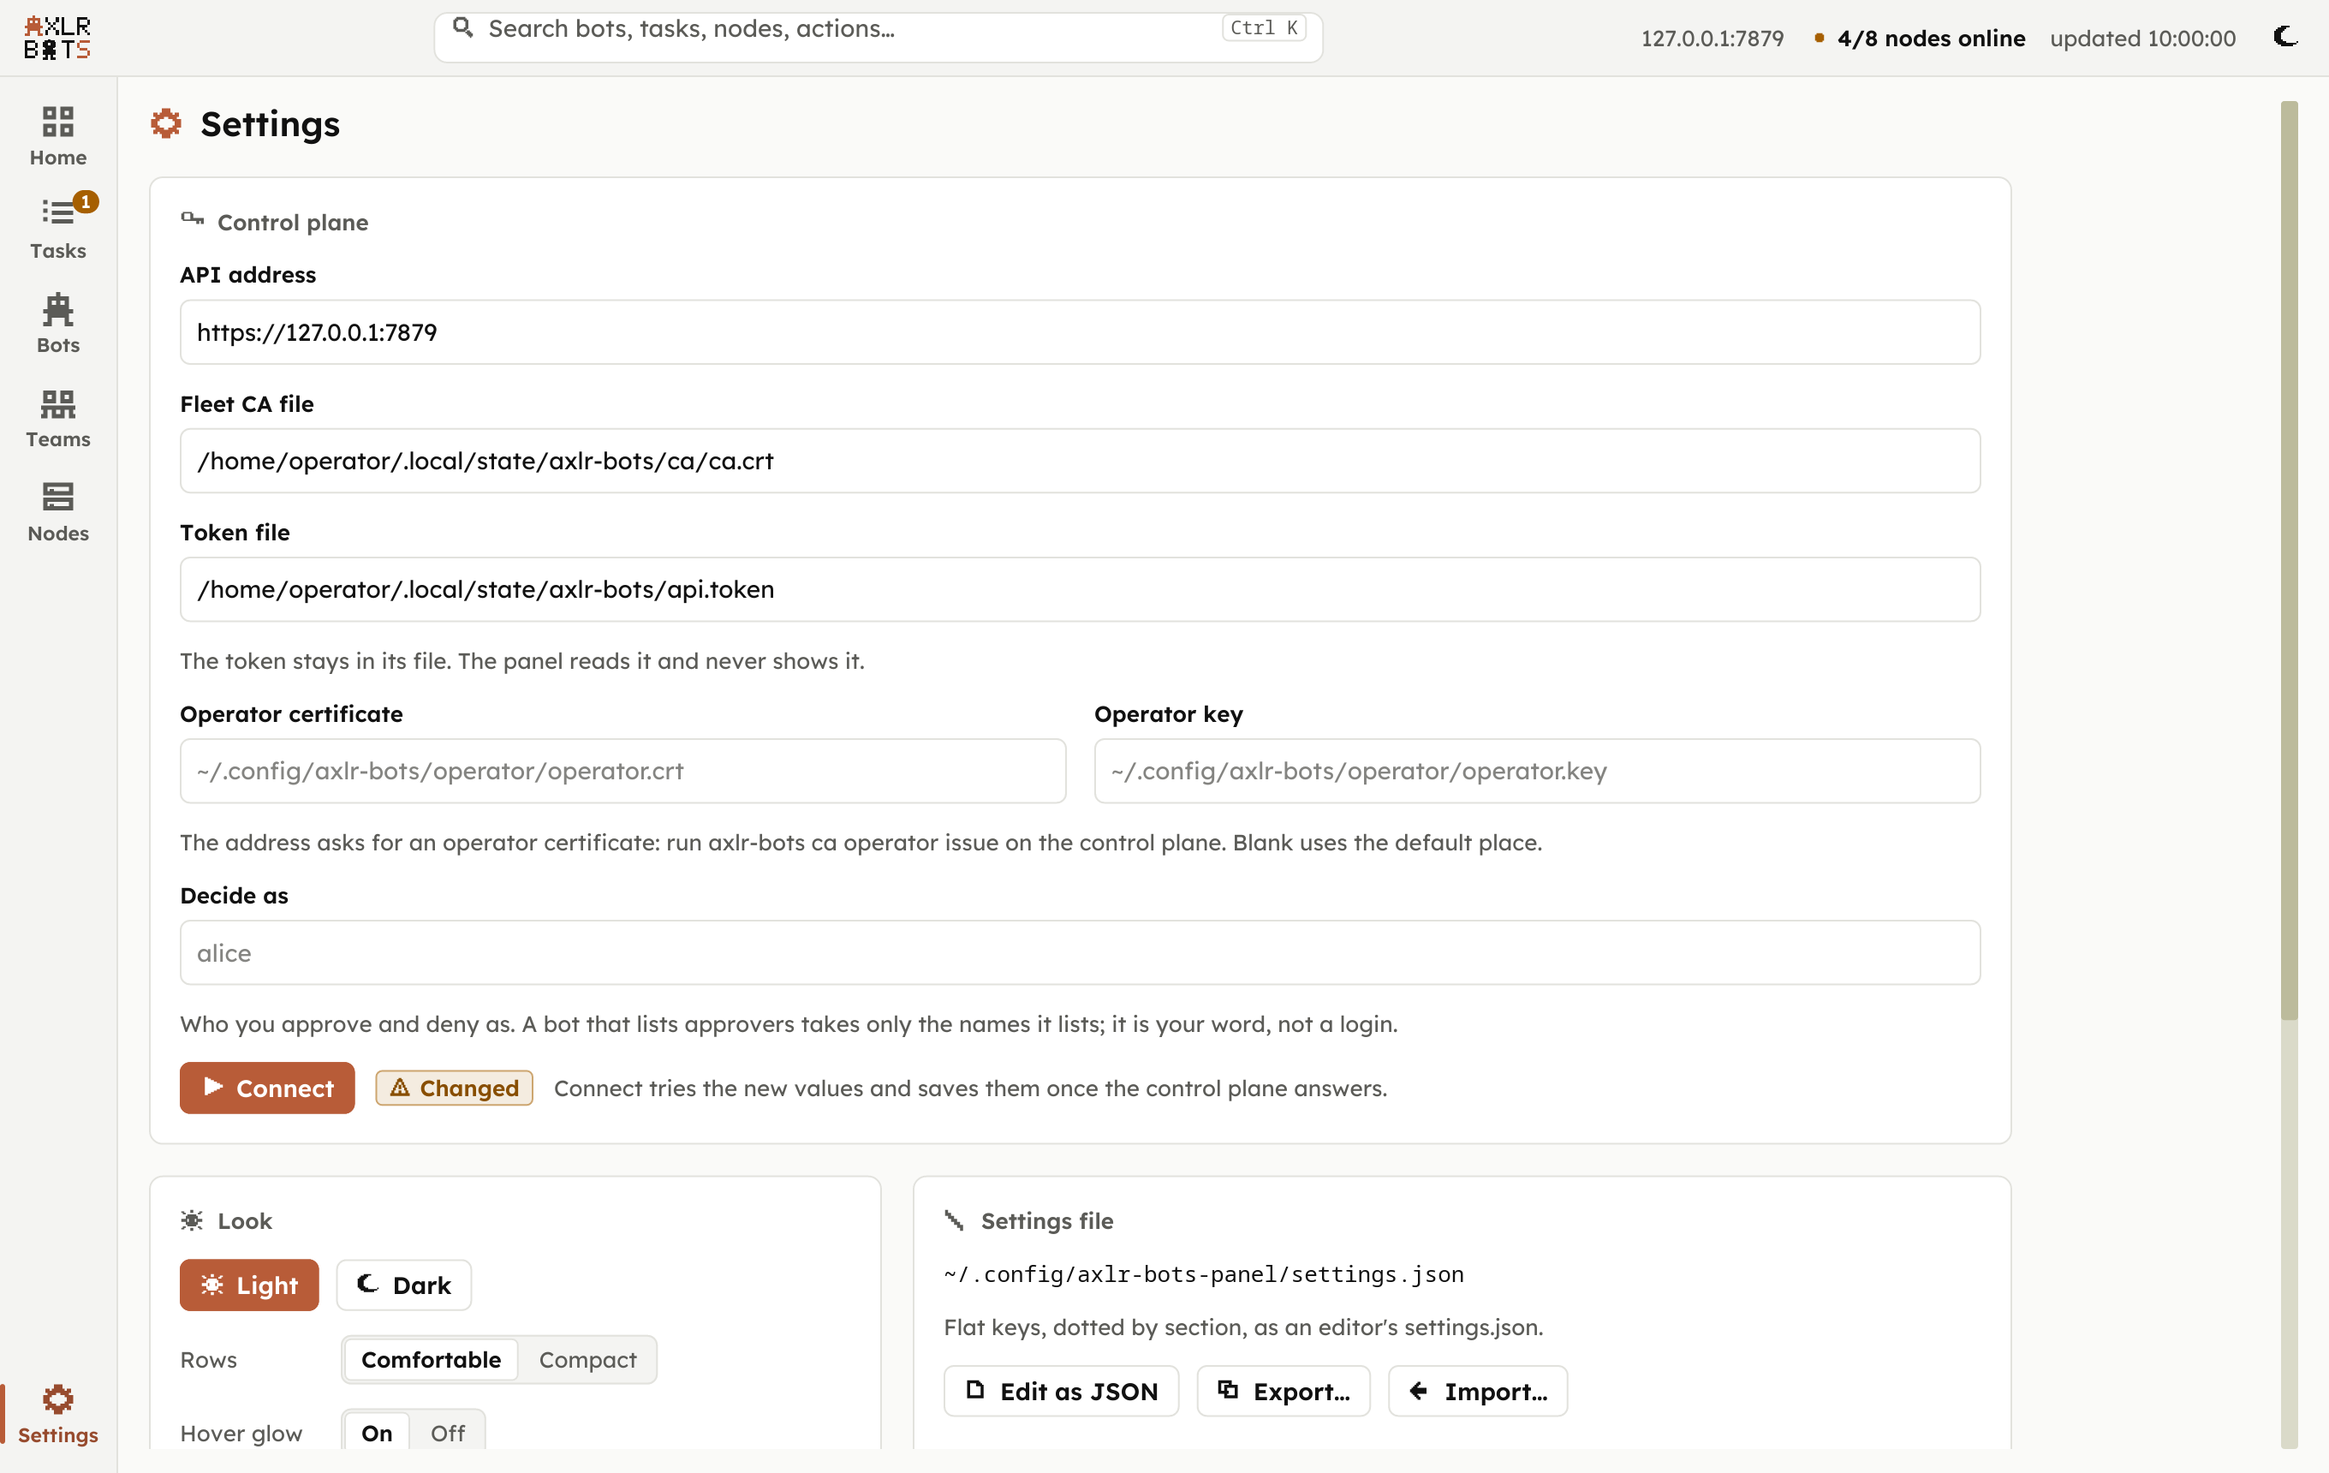
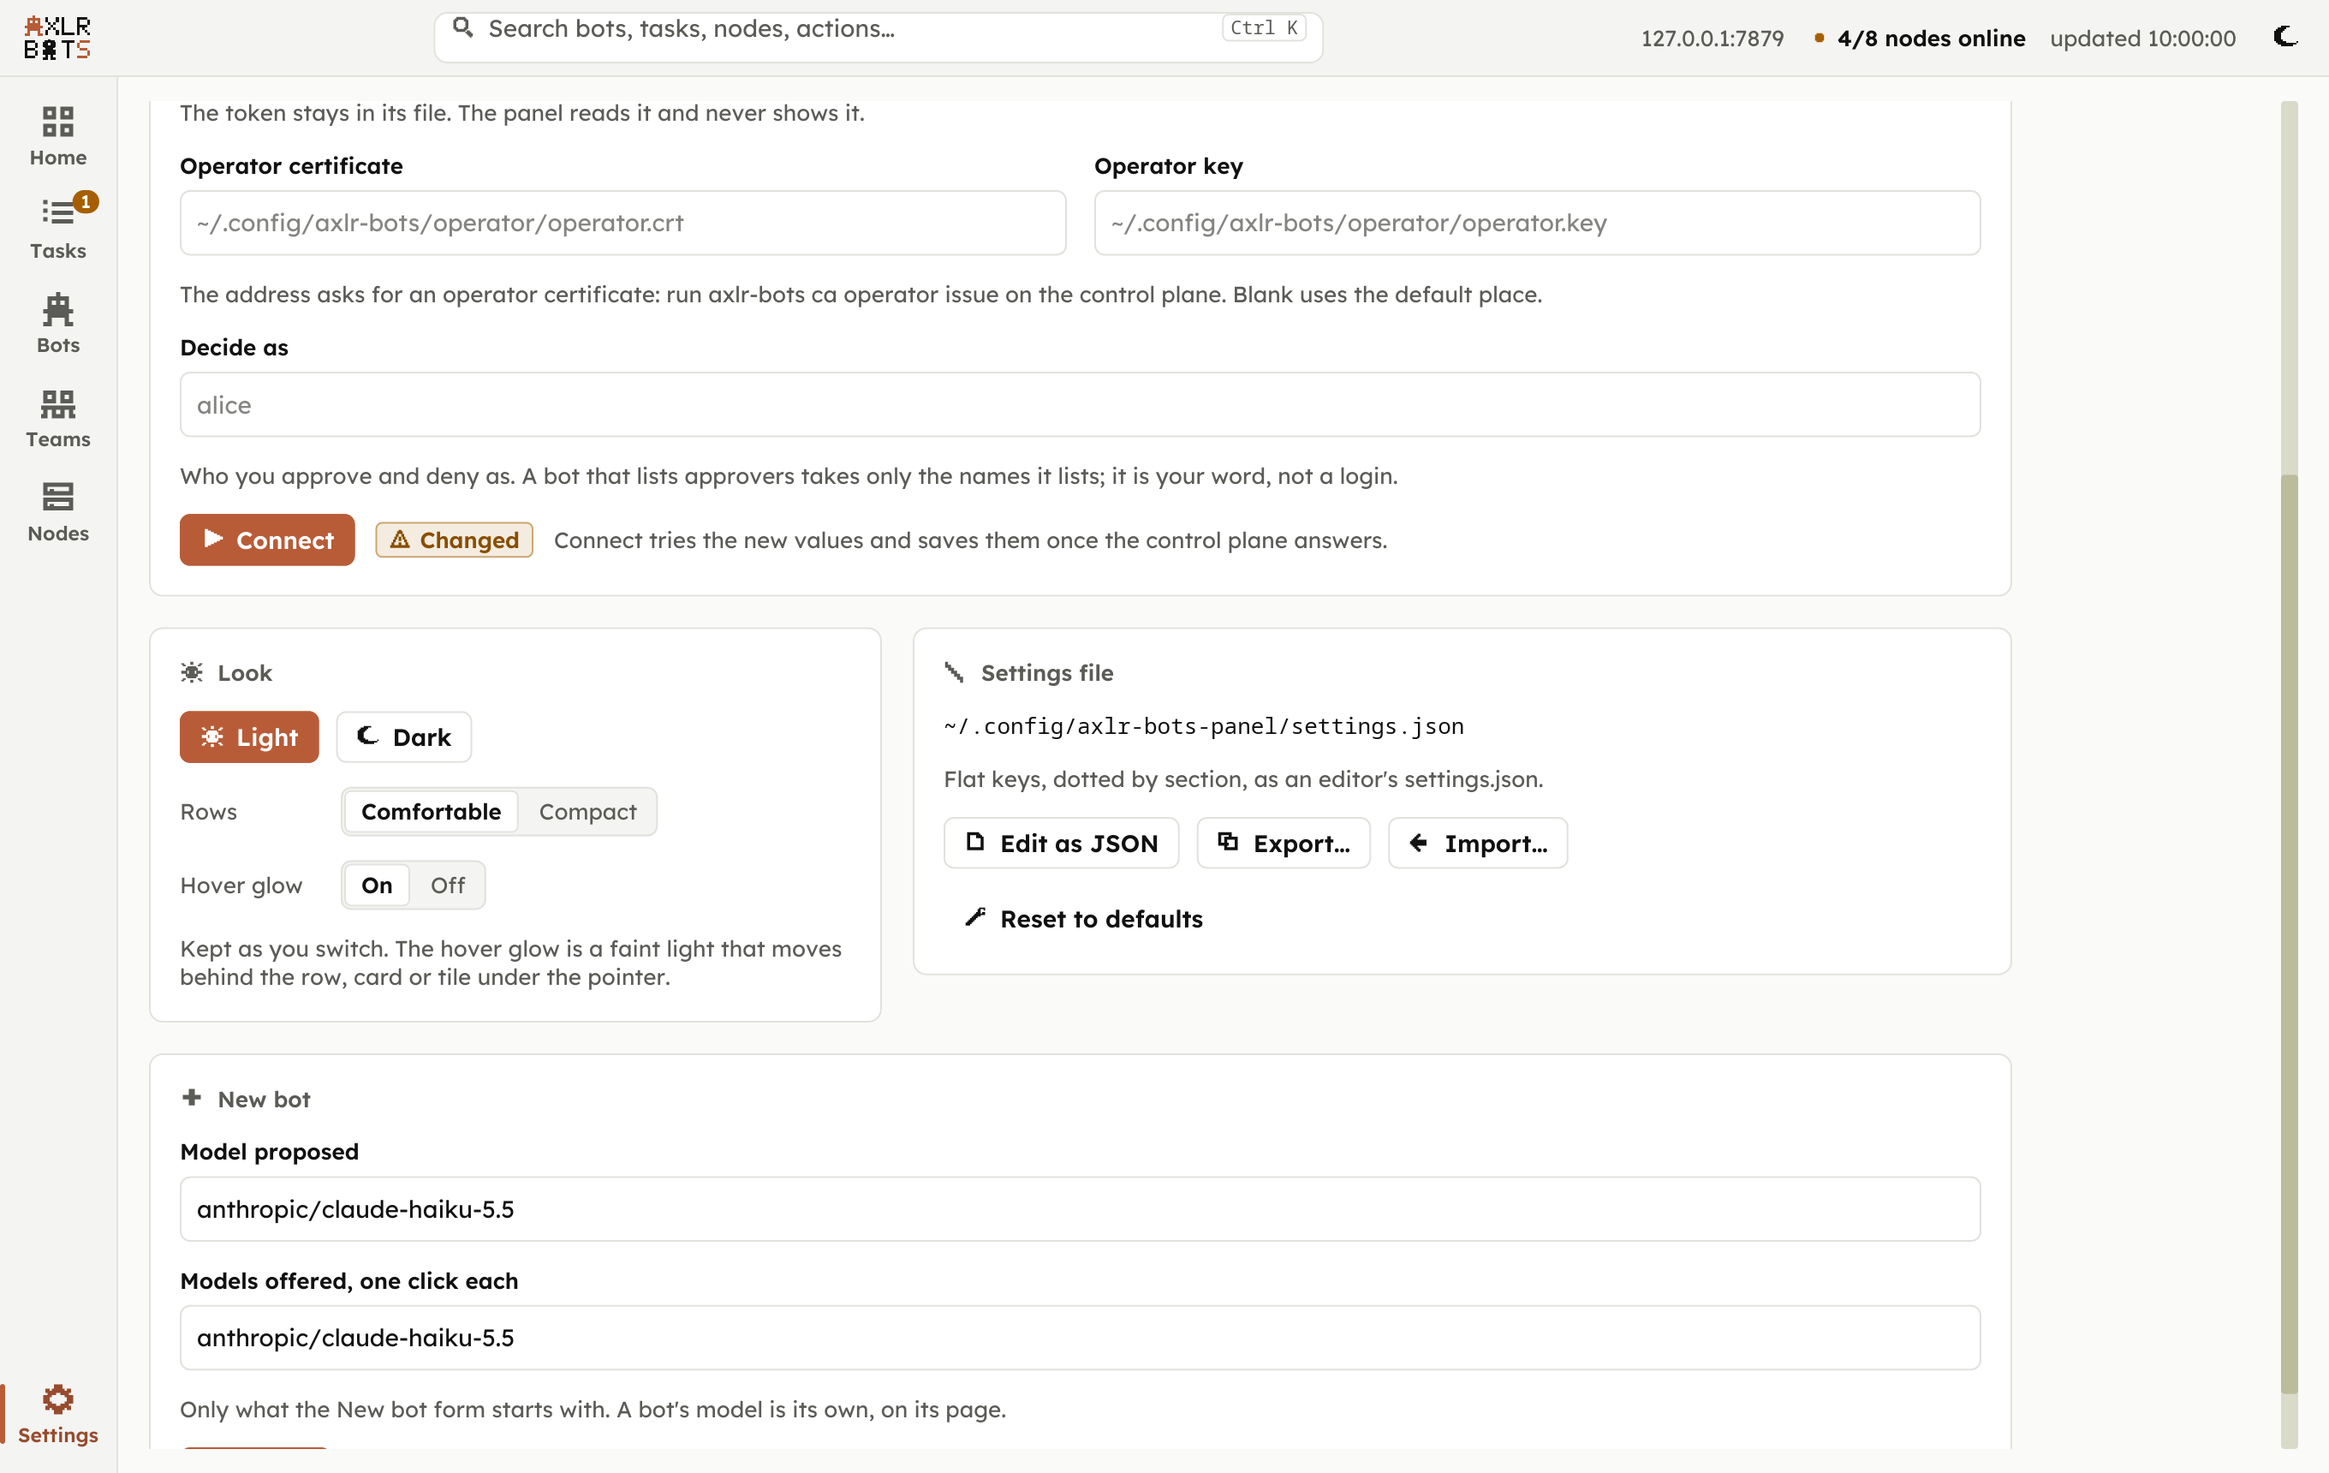
Panel docs: the Settings shots scroll to the look with its hover glow switch whole, and the README says the live words are on the Answer tab and the node a task waits for under its header

diff --git a/panel/src/ui/screenshot_tests.rs b/panel/src/ui/screenshot_tests.rs
@@ -46,16 +46,24 @@ impl Camera {
 
     /// The same, in a window of another size.
     fn shoot_at(&self, app: &mut App, name: &str, window: iced::Size) {
-        self.draw(app, name, window, None);
+        self.draw(app, name, window, None, 0.0);
     }
 
     /// Draws the panel with the pointer at `pointer`, if one is given:
-    /// what is under it has the pointer's wash, as in the window.
-    fn draw(&self, app: &mut App, name: &str, window: iced::Size, pointer: Option<Point>) {
+    /// what is under it has the pointer's wash, as in the window. With a
+    /// `wheel`, the page is first scrolled down by that many points.
+    fn draw(&self, app: &mut App, name: &str, window: iced::Size, pointer: Option<Point>, wheel: f32) {
         let _ = app.apply(Message::DismissBanner);
         let _turn = turn();
         let theme = Tokens::of(app.mode).theme();
         let mut ui = Simulator::with_size(panel_settings(), window, view::view(app));
+        if wheel > 0.0 {
+            ui.point_at(Point::new(window.width / 2.0, window.height / 2.0));
+            let _ = ui.simulate([iced::Event::Mouse(iced::mouse::Event::WheelScrolled {
+                delta: iced::mouse::ScrollDelta::Pixels { x: 0.0, y: -wheel },
+            })]);
+            ui.point_at(pointer.unwrap_or(Point::new(window.width - 2.0, window.height - 2.0)));
+        }
         if let Some(pointer) = pointer {
             ui.point_at(pointer);
         }
@@ -75,10 +83,20 @@ impl Camera {
 
     /// The same state, light and dark, with the pointer at `pointer`.
     fn both_at(&self, app: &mut App, name: &str, pointer: Option<Point>) {
+        self.both_drawn(app, name, pointer, 0.0);
+    }
+
+    /// The same state, light and dark, the page scrolled down by `wheel`
+    /// points: the Settings' look and file, under its control plane.
+    fn both_scrolled(&self, app: &mut App, name: &str, wheel: f32) {
+        self.both_drawn(app, name, None, wheel);
+    }
+
+    fn both_drawn(&self, app: &mut App, name: &str, pointer: Option<Point>, wheel: f32) {
         for mode in [ThemeMode::Light, ThemeMode::Dark] {
             app.mode = mode;
             let suffix = if mode == ThemeMode::Dark { "dark" } else { "light" };
-            self.draw(app, &format!("{name}-{suffix}"), WINDOW, pointer);
+            self.draw(app, &format!("{name}-{suffix}"), WINDOW, pointer, wheel);
         }
         app.mode = ThemeMode::Light;
     }
@@ -122,6 +140,10 @@ fn place_of(app: &App, words: &str) -> iced::Rectangle {
         .unwrap_or_else(|e| panic!("{words} is not on {:?}: {e:?}", app.screen))
         .bounds()
 }
+
+/// How far the Settings screen is scrolled for its shots: its look and
+/// its file in sight whole, under the end of its control plane.
+const SETTINGS_WHEEL: f32 = 320.0;
 
 fn task_with(app: &App, status: TaskStatus) -> crate::domain::TaskId {
     let fleet = app.fleet.as_ref().unwrap();
@@ -199,7 +221,7 @@ fn screenshots() {
     app.apply(Message::SettingsToken(
         "/home/operator/.local/state/axlr-bots/api.token".into(),
     ));
-    camera.both(&mut app, "settings");
+    camera.both_scrolled(&mut app, "settings", SETTINGS_WHEEL);
     app.apply(Message::SettingsJsonOpen);
     camera.shoot(&mut app, "settings-json-light");
     app.apply(Message::SettingsJsonClose);
@@ -490,7 +512,7 @@ fn redesign_shots_s4() {
 
     // The Settings screen with the switch, on and off.
     send(&mut app, Message::Go(Screen::Settings));
-    camera.both(&mut app, "s4-settings");
+    camera.both_scrolled(&mut app, "s4-settings", SETTINGS_WHEEL);
     send(&mut app, Message::SetMotion(crate::application::Motion::Off));
-    camera.shoot(&mut app, "s4-settings-off-light");
+    camera.draw(&mut app, "s4-settings-off-light", WINDOW, None, SETTINGS_WHEEL);
 }

diff --git a/panel/README.md b/panel/README.md
@@ -76,11 +76,11 @@ The page never scrolls as a whole. A list keeps its bar and its header in sight 
 |:--|:--:|:--:|
 | **Home**: what needs you first, as an amber block with **Approve**, **Deny** and **Review** on each waiting task, or one quiet line *✓ Nothing needs you*; then one strip of seven numbers (nodes online, bots on, running, need you, failed today, stopped today, cost today), each a link to what it counts; then three columns: **Fleet**, every bot as a small tile by team (on: solid with a dot; paused: muted), **Latest**, the newest 20 tasks with their repeats folded, and **Nodes**, the live ones (the revoked are counted, not listed). A click on a tile, a line or a number opens it | <img src="docs/screenshots/overview-light.png" width="300"> | <img src="docs/screenshots/overview-dark.png" width="300"> |
 | **Tasks**: one line per task: Status · Bot · What · Started by (the trigger's glyph and name) · At (your clock) · Age, and its acts (✓ ✕ on one that waits for you, Stop on one still open). *What* is the event's own message when an event started the task, then the objective, muted. **Fold repeats** (on by default) folds the tasks of one bot that the same trigger started and that stand the same into the newest, with a `×N` badge; the note line says how many (*Newest 200 tasks · 110 repeats folded*). **Group** goes round none, trigger, bot and status, under headers with counts that close on a click. Status chips with counts filter; **New task** sends one (one idempotency key per form; **Urgent** sends it first) | <img src="docs/screenshots/tasks-light.png" width="300"> | <img src="docs/screenshots/tasks-dark.png" width="300"> |
-| **A task in the inspector**: a click or Enter on a row opens it beside the list, which stays, narrower. The header has the status, the bot, what started it and the acts (**Approve** and **Deny** while it waits, **Stop** while it is open, **Run again**, and **Talk to it**, which opens its bot's chat, while it runs), the title on at most two lines and the objective under it; then its facts (Node, Started, Took, Cost, From, Team, and the task and trace ids with a copy button); then the tabs **Activity · Answer · Files · Runs · Timeline · Raw** | <img src="docs/screenshots/task-activity-light.png" width="300"> | <img src="docs/screenshots/task-activity-dark.png" width="300"> |
-| **Activity**: what the run did, one line per step ([live progress](../docs/architecture/live-progress.md)): your clock, ✓ ✕ or ▶, the tool, the step's *why* (the `why` its call gave, else its arguments, muted), how long it took with a small bar; the events it emitted and what it said sit in the same stream, in order. A click opens the step in place: its arguments, why it failed, the bots it asked (**Open task**), **Copy step**; **Copy activity** copies it all. **Find in activity** (`Ctrl F`) marks every match and counts them (`1/7`), Enter and Shift+Enter (or ↑ ↓) go to the next and the one before; the chips All · Tools · Failed · Events keep one kind. A running task follows its newest step; scrolling up stops that and offers **↓ Jump to latest**. **What it says so far** shows the model's words as they come (**Select words** holds them still to select a part of, **Formatted** goes back, **Copy words**). A decision queued for a node that is away says so on top, in your clock: *Waiting for node web-1, offline since 11:20* | | |
+| **A task in the inspector**: a click or Enter on a row opens it beside the list, which stays, narrower. The header has the status, the bot, what started it and the acts (**Approve** and **Deny** while it waits, **Stop** while it is open, **Run again**, and **Talk to it**, which opens its bot's chat, while it runs), the title on at most two lines and the objective under it; then its facts (Node, Started, Took, Cost, From, Team, and the task and trace ids with a copy button); a line on why it ended, or what it waits for (a decision queued for a node that is away says so in your clock: *Waiting for node web-1, offline since 11:20*); then the tabs **Activity · Answer · Files · Runs · Timeline · Raw** | <img src="docs/screenshots/task-activity-light.png" width="300"> | <img src="docs/screenshots/task-activity-dark.png" width="300"> |
+| **Activity**: what the run did, one line per step ([live progress](../docs/architecture/live-progress.md)): your clock, ✓ ✕ or ▶, the tool, the step's *why* (the `why` its call gave, else its arguments, muted), how long it took with a small bar; the events it emitted and what it said sit in the same stream, in order. A click opens the step in place: its arguments, why it failed, the bots it asked (**Open task**), **Copy step**; **Copy activity** copies it all. **Find in activity** (`Ctrl F`) marks every match and counts them (`1/7`), Enter and Shift+Enter (or ↑ ↓) go to the next and the one before; the chips All · Tools · Failed · Events keep one kind. A running task follows its newest step; scrolling up stops that and offers **↓ Jump to latest** | | |
 | **A task that waits for you**: the call it stopped on, each argument with its copy button, **Copy call**, and **Approve** or **Deny** in the header | <img src="docs/screenshots/task-waiting-light.png" width="300"> | <img src="docs/screenshots/task-waiting-dark.png" width="300"> |
 | **A post before it goes out**: when the waiting call publishes something (an argument named `--text`, `--message`, `--body` or `--post`, on any program), the call shows it **as it would read**: the bot as author, the words with their links, one box per attachment (`--card`, `--image`, `--cover`, `--diagram`: the pictures are drawn on the node, so each shows what it is), the character and link count, and **Copy text**. No network is special: the panel draws the draft, not X or Mastodon | <img src="docs/screenshots/task-post-draft-light.png" width="300"> | <img src="docs/screenshots/task-post-draft-dark.png" width="300"> |
-| **Answer, Files, Runs, Timeline, Raw**: the answer as Markdown, or as text to select a part of (**Select text**, **Copy answer**); what a task an event made knew and read before (**Knew**, **Read before**); the files its runs delivered (name, type, size) with **Save** on those the control plane keeps; every run with its node, outcome, tool calls and why each ran or not (Allowed by its rules, You approved it, It asked you, Blocked by its rules, You denied it), usage and cost (*cost unknown* for a run stopped before it said, and a total with such runs reads *≥ $0.42*, as Home's cost today does), trace and policy; the timeline of its lifecycle (**Copy timeline**); and **Raw**, the task as JSON (**Copy JSON**) | | |
+| **Answer, Files, Runs, Timeline, Raw**: the answer as Markdown, or as text to select a part of (**Select text**, **Copy answer**); before there is one, **What it says so far**, the model's words as they come (**Select words** holds them still to select a part of, **Formatted** goes back, **Copy words**); what a task an event made knew and read before (**Knew**, **Read before**); the files its runs delivered (name, type, size) with **Save** on those the control plane keeps; every run with its node, outcome, tool calls and why each ran or not (Allowed by its rules, You approved it, It asked you, Blocked by its rules, You denied it), usage and cost (*cost unknown* for a run stopped before it said, and a total with such runs reads *≥ $0.42*, as Home's cost today does), trace and policy; the timeline of its lifecycle (**Copy timeline**); and **Raw**, the task as JSON (**Copy JSON**) | | |
 | **Copy**: a button beside each block copies it: the task, the answer, the call waiting and each argument, a failure, a run's error, a step, the activity, the timeline, a bot's mission, an error banner. A bot's mission, a team's members and a new host's token select in part too (drag, Ctrl+C) | | |
 | **Bots**: grouped by team under headers that say *ops · 4 on · 1 paused* and close on a click; a team with no bot on starts closed. Status · Bot · Level · Model · Runs on · Starts by, and on each row turn on or pause, Stop, open. Chips All · On · Paused. **New bot** opens the form over the list; **From file** adds one from a definition file (its `version` goes with it). A bot whose staged definition is newer than its own has the update mark beside its status, its tip `v1.2.0 → v1.3.0 ready` | <img src="docs/screenshots/bots-light.png" width="300"> | <img src="docs/screenshots/bots-dark.png" width="300"> |
 | **A bot in the inspector**: the header has its status, team and node, and **Pause** or **Turn on**, **Stop** (it also cancels its open tasks), **Edit**, **Delete**, and **Update to v1.3.0** when a newer definition is staged ([staged changes](../docs/reference/bot-definition.md#staged-changes)), which asks first. Tabs: **Now** (right now: waits for you, working on a task with its newest step, queued, idle or paused, with **Urgent order**; its latest work; what starts it; the chat at the foot), **Work** (its tasks), **Mission** (what it does, its team), **Rules & tools** (how much it may do alone: Ask me before acting, Act on its own within its rules, Only watch and report; its triggers, placement, tools and their rules, model and budgets), **Listens & emits** (its topics, the names it emitted, its events as they happen: **Update ready**, **Update dropped**, **Updated** with the versions). **Edit** changes its mission and its tools, each one "Runs on its own", "Asks you first" or "Never runs", and saves nothing over a change made meanwhile; **Delete** says first how many tasks it cancels and which bots still name it, and goes only once the bot's id is typed | <img src="docs/screenshots/bot-light.png" width="300"> | <img src="docs/screenshots/bot-dark.png" width="300"> |
